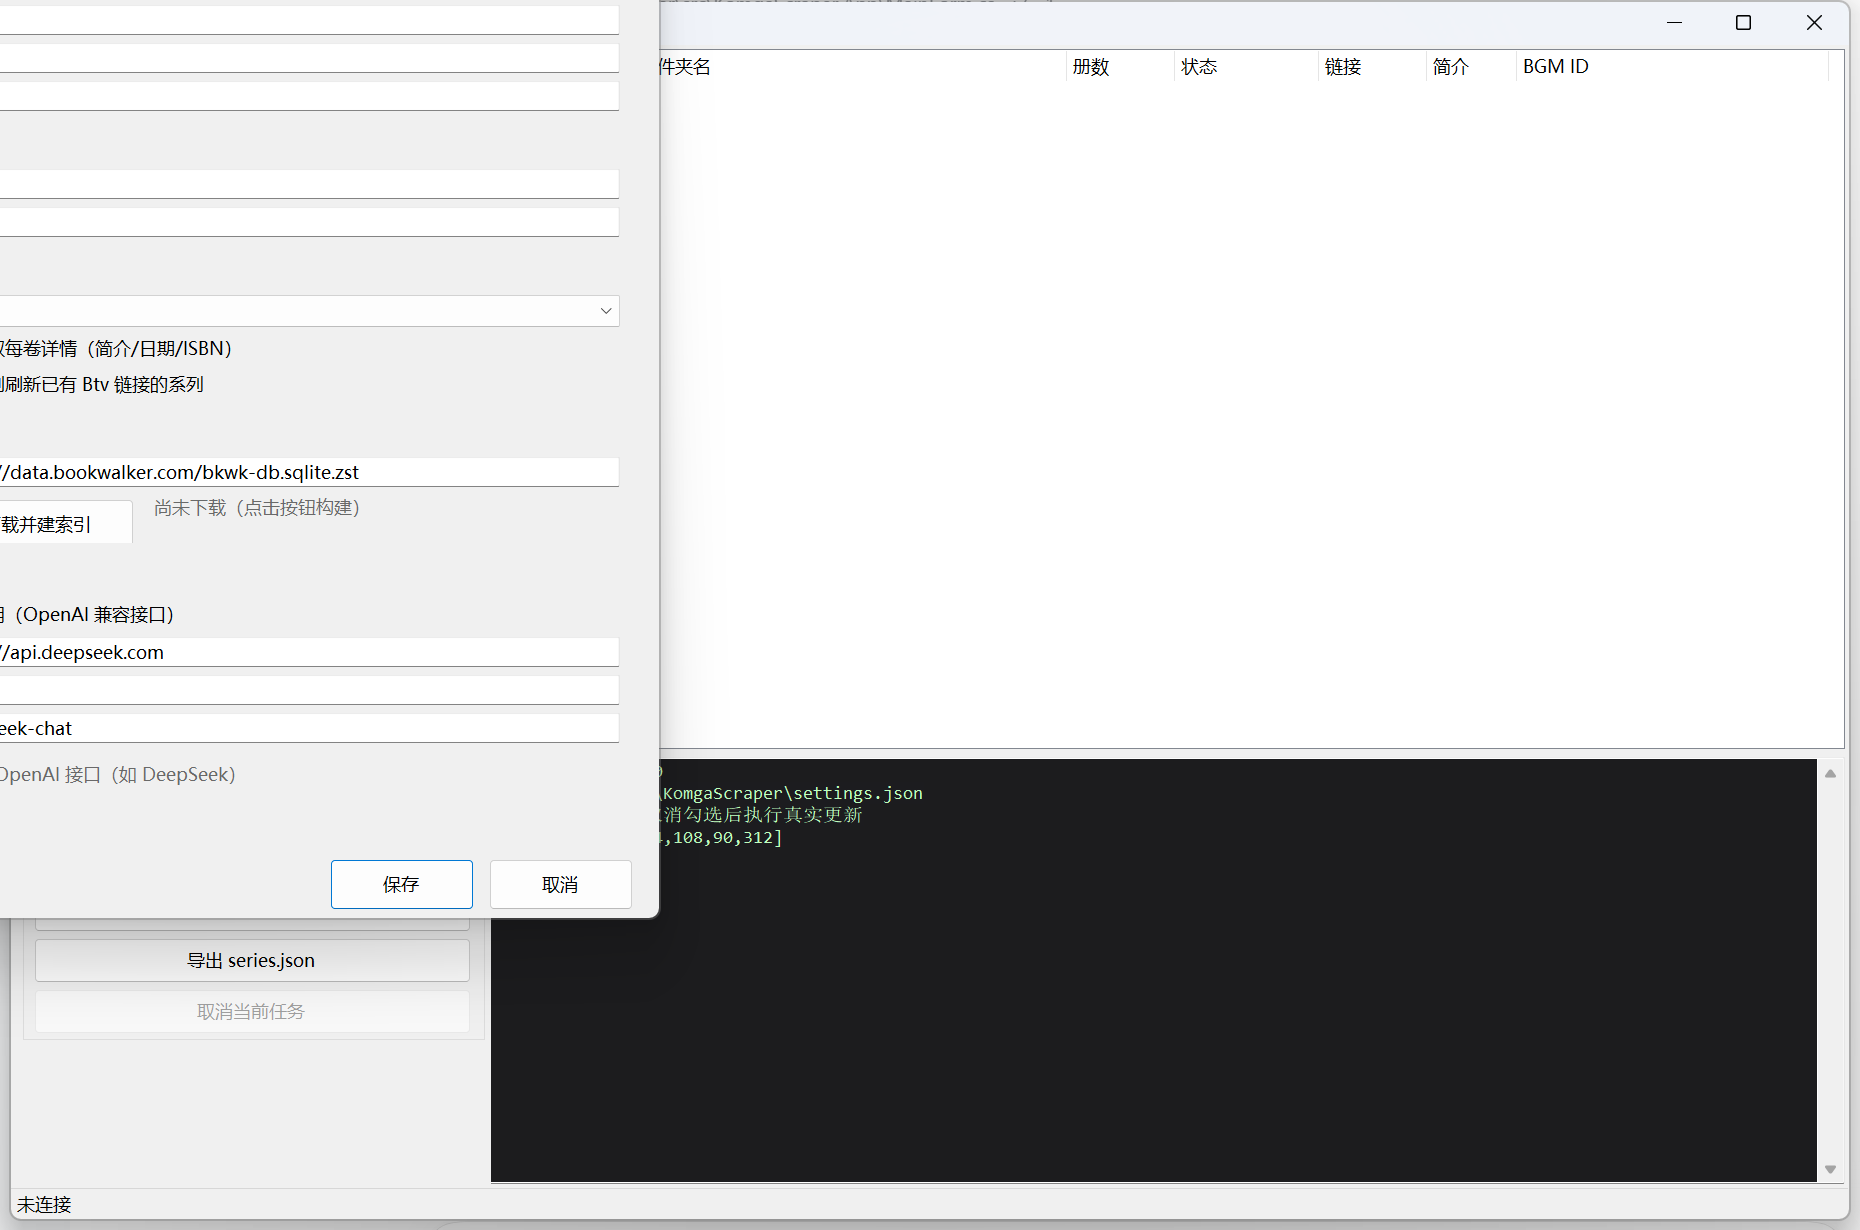
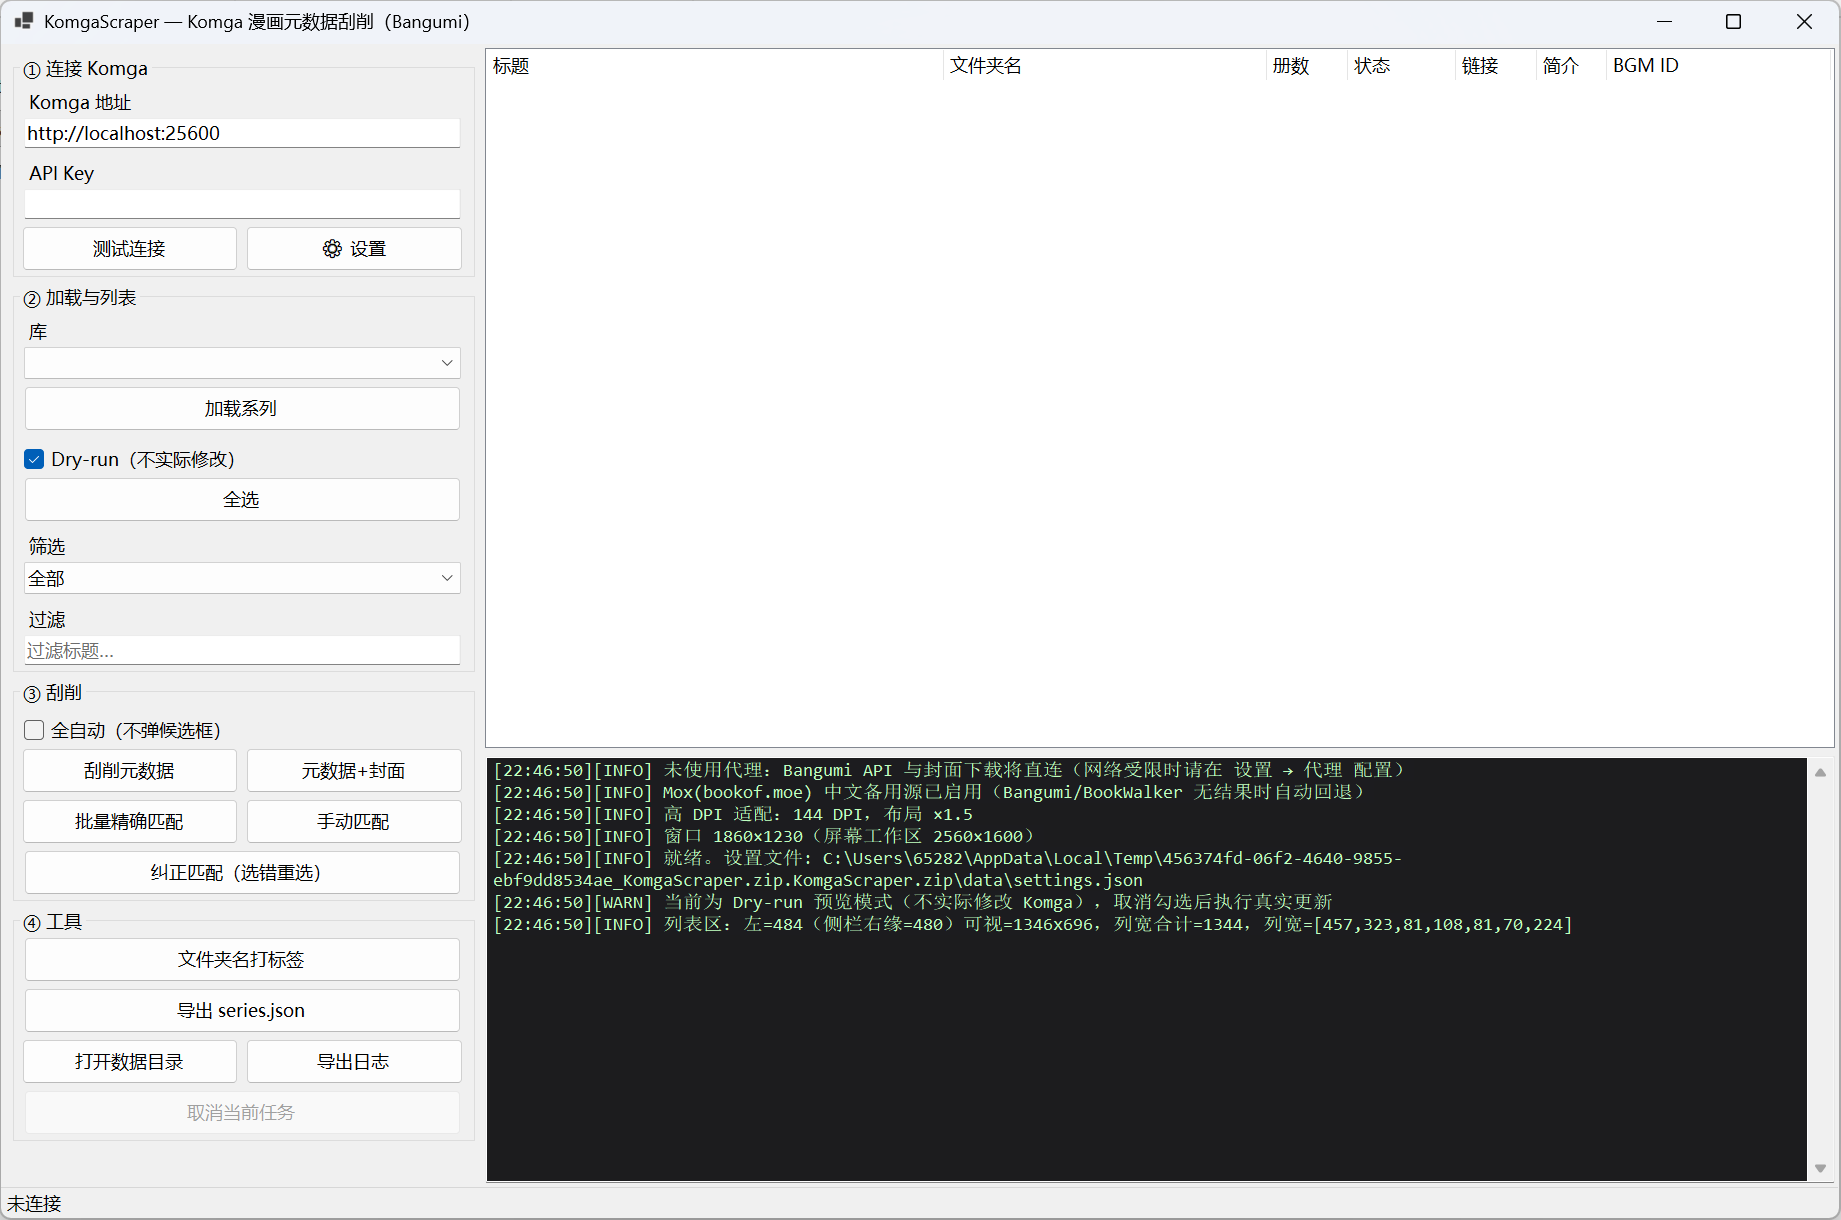
docs: real app screenshot + badge casing

diff --git a/README.md b/README.md
@@ -9,7 +9,7 @@
 [![Build](https://img.shields.io/github/actions/workflow/status/zzzwannasleep/MangaMatcher/release.yml?style=flat-square&branch=main)](https://github.com/zzzwannasleep/MangaMatcher/actions/workflows/release.yml)
 [![Stars](https://img.shields.io/github/stars/zzzwannasleep/MangaMatcher?style=flat-square&color=ffd700)](https://github.com/zzzwannasleep/MangaMatcher/stargazers)
 [![License](https://img.shields.io/github/license/zzzwannasleep/MangaMatcher?style=flat-square)](LICENSE)
-[![Platform](https://img.shields.io/badge/platform-Windows-blue?style=flat-square)](#)
+[![Platform](https://img.shields.io/badge/Platform-Windows-blue?style=flat-square)](#)
 [![.NET](https://img.shields.io/badge/.NET-8.0-512bd4?style=flat-square)](#)
 [![Language](https://img.shields.io/badge/C%23-12-178600?style=flat-square)](#)
 
